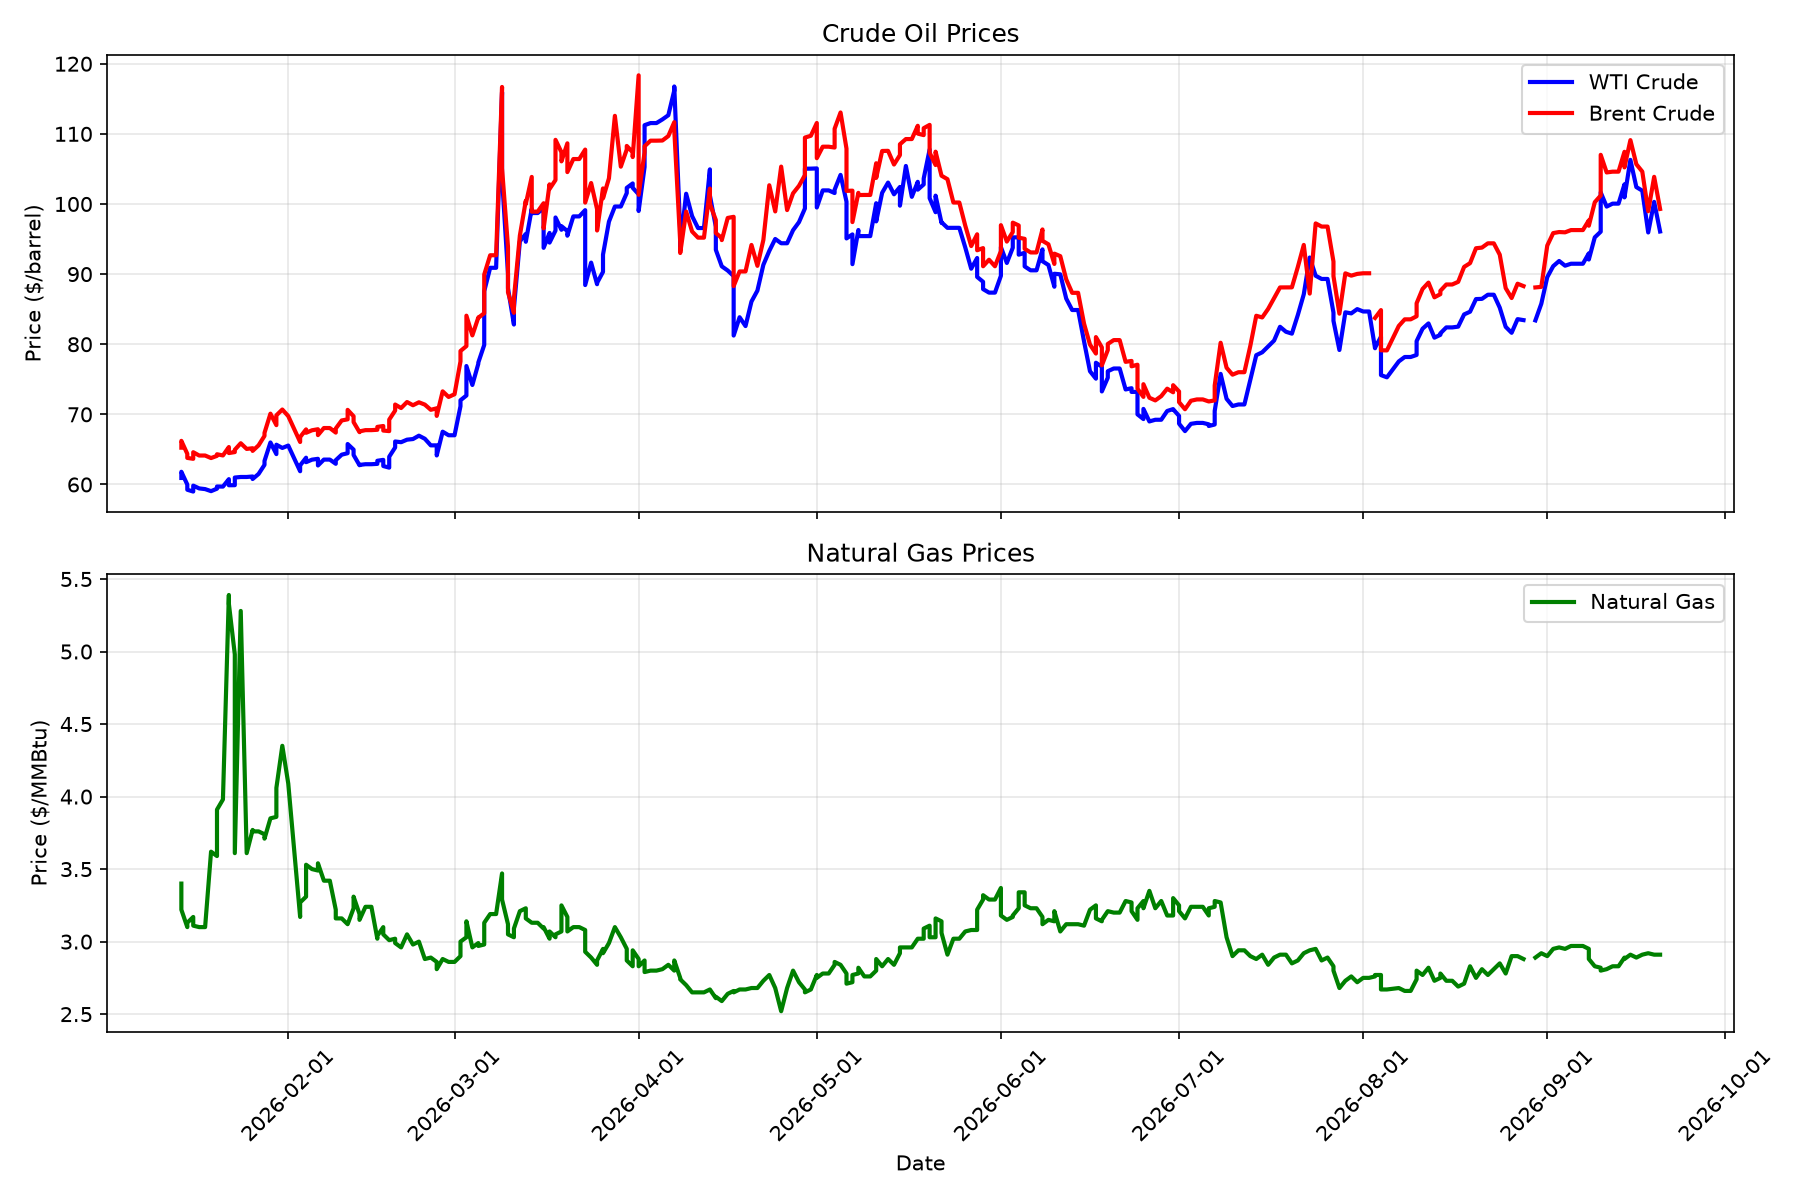
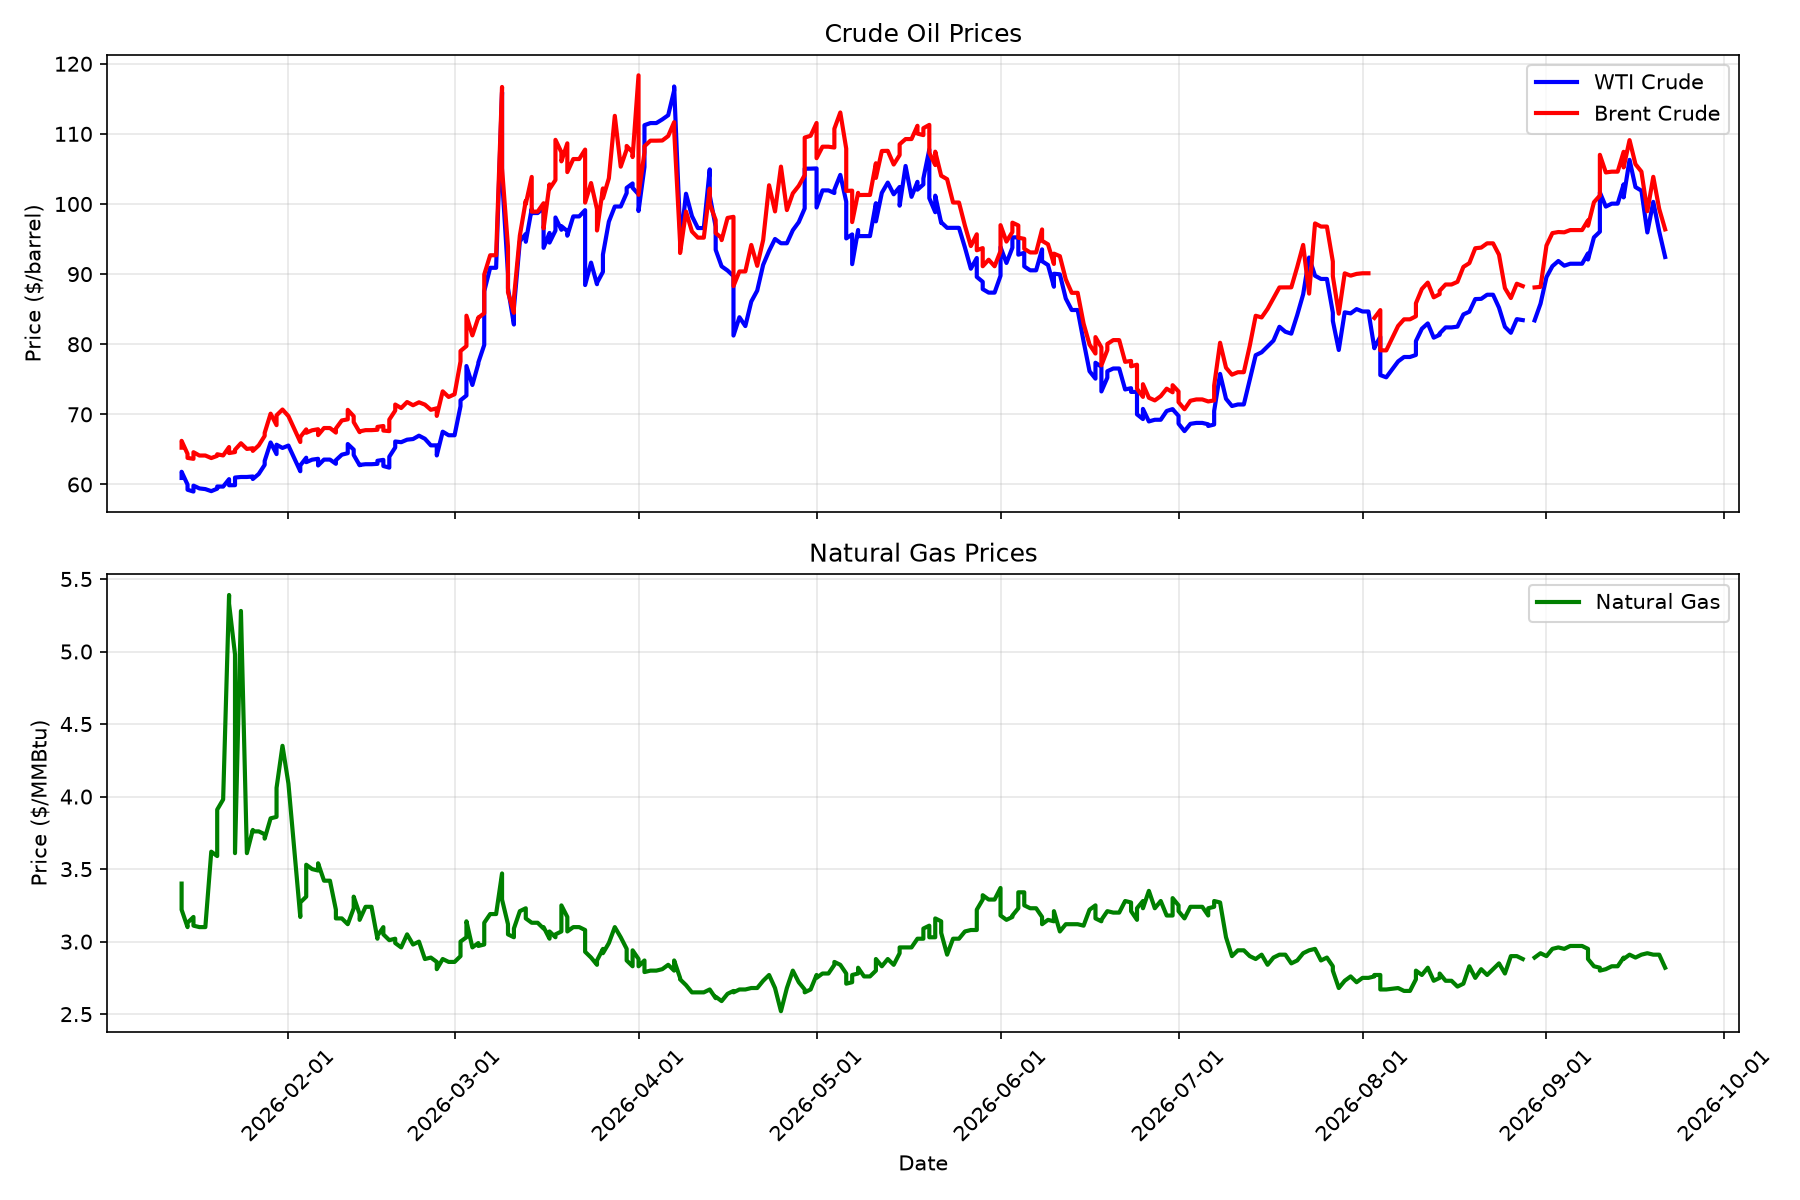
Daily price update: 2026-09-21

diff --git a/README.md b/README.md
@@ -2,29 +2,29 @@
 
 Automated daily tracking of chemical commodity prices and chemical company stocks.
 
-## Latest Prices (Updated: 2026-09-20)
+## Latest Prices (Updated: 2026-09-21)
 
 ### Energy Commodities
 
 | Commodity | Price | Change (24h) | Unit |
 |-----------|-------|--------------|------|
-| WTI Crude Oil | $96.08 | +0.00 (+0.00%) | $/barrel |
-| Brent Crude Oil | $99.29 | +0.00 (+0.00%) | $/barrel |
-| Natural Gas | $2.91 | +0.00 (+0.00%) | $/MMBtu |
-| Heating Oil | $4.84 | +0.00 (+0.00%) | $/gallon |
+| WTI Crude Oil | $92.44 | +0.00 (+0.00%) | $/barrel |
+| Brent Crude Oil | $96.38 | +0.00 (+0.00%) | $/barrel |
+| Natural Gas | $2.82 | +0.00 (+0.00%) | $/MMBtu |
+| Heating Oil | $4.72 | +0.00 (+0.00%) | $/gallon |
 
 ### Chemical Company Stocks
 
 | Company | Ticker | Price | Change (24h) |
 |---------|--------|-------|--------------|
-| Dow Inc. | DOW | $28.73 | -0.76 (-2.58%) |
-| LyondellBasell | LYB | $61.93 | -2.32 (-3.61%) |
-| DuPont | DD | $129.01 | +0.55 (+0.43%) |
-| Air Products | APD | $284.18 | -1.94 (-0.68%) |
-| Linde | LIN | $460.40 | +1.92 (+0.42%) |
-| Eastman Chemical | EMN | $65.69 | -0.55 (-0.83%) |
-| Celanese | CE | $45.41 | -1.40 (-2.99%) |
-| Huntsman | HUN | $9.09 | -0.03 (-0.33%) |
+| Dow Inc. | DOW | $28.35 | -0.38 (-1.31%) |
+| LyondellBasell | LYB | $60.55 | -1.38 (-2.23%) |
+| DuPont | DD | $130.05 | +1.04 (+0.81%) |
+| Air Products | APD | $281.95 | -2.23 (-0.78%) |
+| Linde | LIN | $457.89 | -2.51 (-0.54%) |
+| Eastman Chemical | EMN | $65.30 | -0.39 (-0.59%) |
+| Celanese | CE | $45.01 | -0.40 (-0.87%) |
+| Huntsman | HUN | $8.91 | -0.18 (-1.98%) |
 
 ## Data Sources
 

diff --git a/logs/update_log.md b/logs/update_log.md
@@ -375,3 +375,4 @@ Daily updates to the chemical engineering data repository.
 - **2026-09-18 17:21:36**: Updated 4 energy prices, 8 stocks, 0 FRED series
 - **2026-09-19 16:53:09**: Updated 4 energy prices, 8 stocks, 0 FRED series
 - **2026-09-20 17:06:27**: Updated 4 energy prices, 8 stocks, 0 FRED series
+- **2026-09-21 18:58:06**: Updated 4 energy prices, 8 stocks, 0 FRED series
